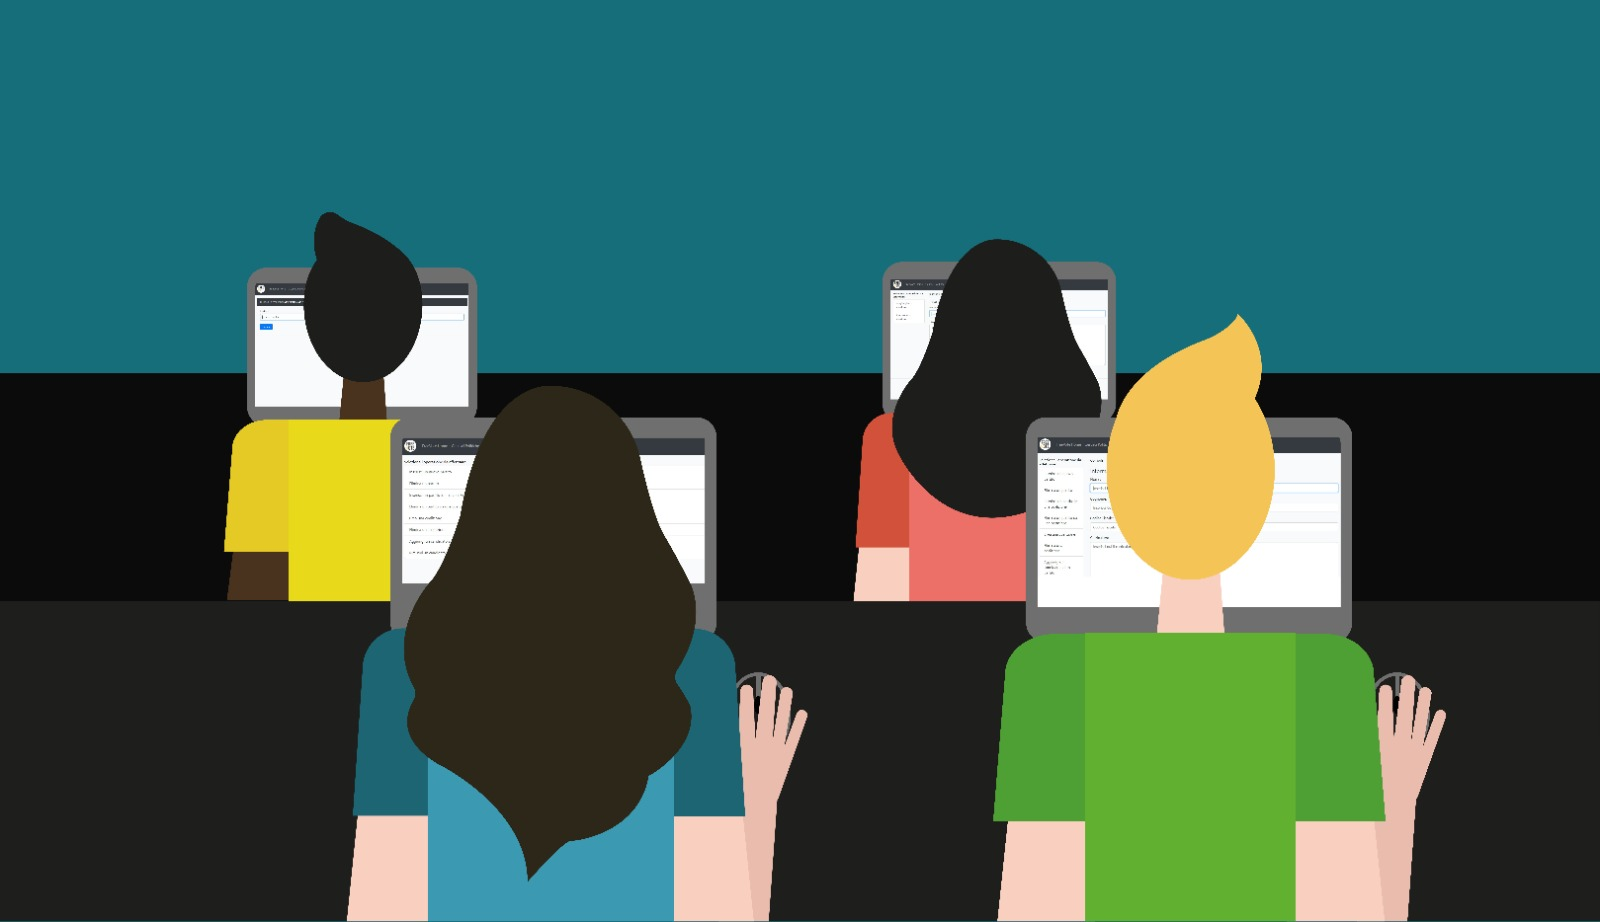
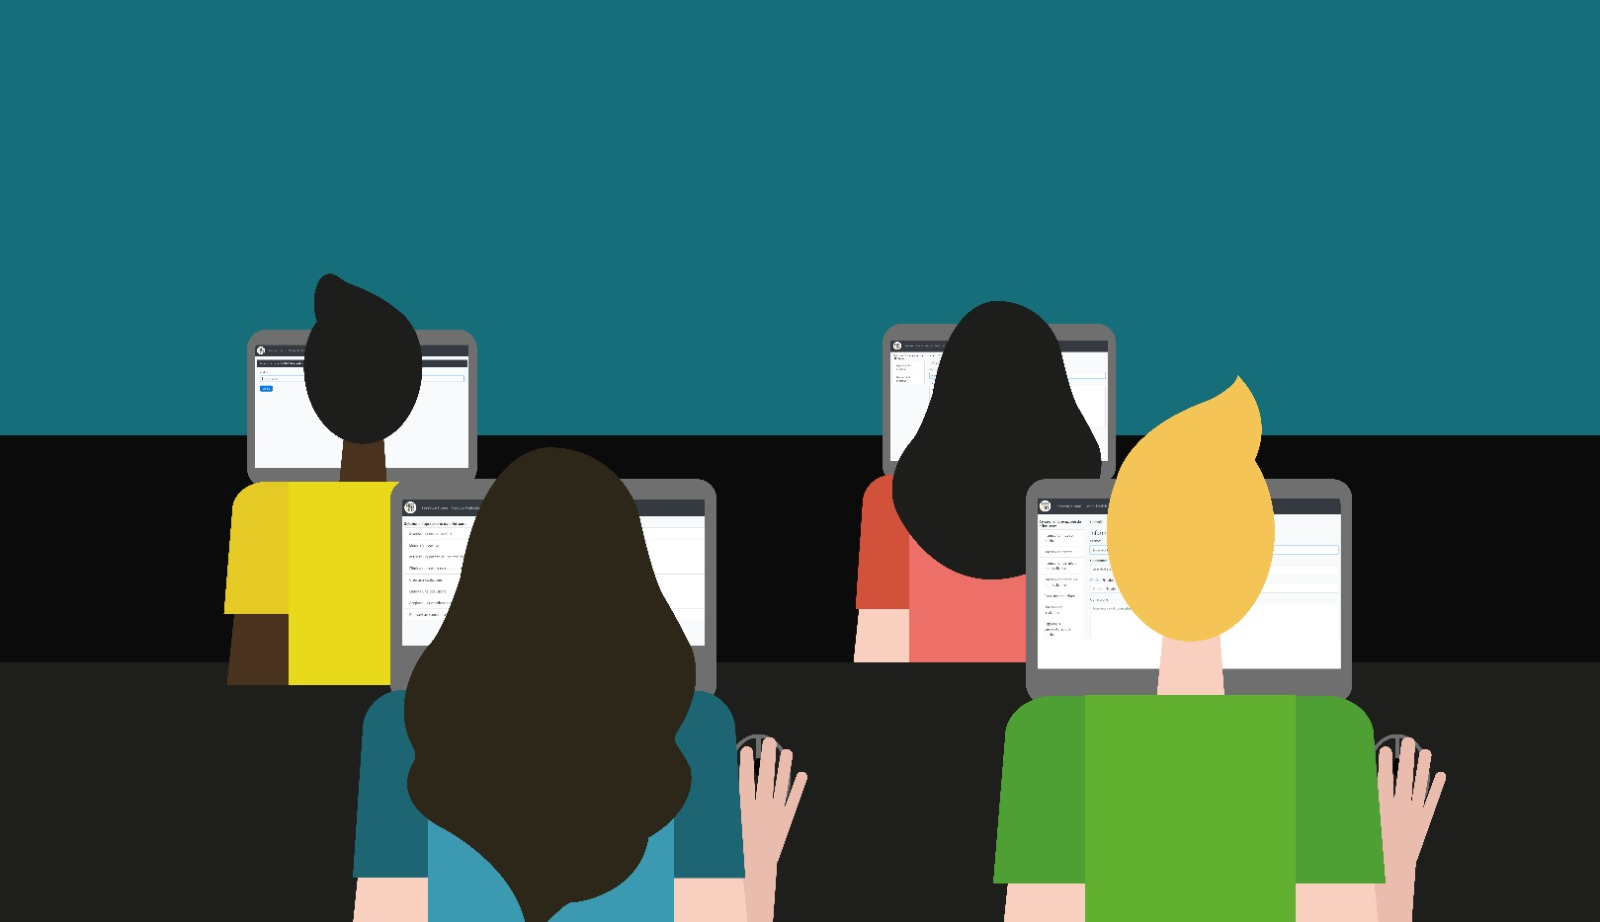
Aggiunta sfondo interfaccia admin, illustrazioni info e contatti, e sfondo corretto loginAdmin

Changed region(s): [[0.0, 0.2126, 1.0, 1.0], [0.625, 0.8807, 0.6875, 1.0], [0.5938, 0.8503, 0.625, 0.8807]]

diff --git a/FreeVote/WebContent/css/style.css b/FreeVote/WebContent/css/style.css
@@ -60,7 +60,15 @@
 
 @media screen and (min-width: 540px){
 	.bg-login-admin {
-			 background-image: url('../imgs/illogin-5.jpeg');
+			 background-image: url('../imgs/illogin-5.jpg');
+			 background-position:bottom; 
+			 background-size: cover;
+			 background-repeat:no-repeat;
+			 background-attachment: fixed;
+	}	
+	
+	.bg-interfaccia-admin {
+			 background-image: url('../imgs/interfacciaAdmin.jpeg');
 			 background-position:bottom; 
 			 background-size: cover;
 			 background-repeat:no-repeat;
@@ -71,4 +79,21 @@
 .bg-login-admin {
 		 background-color: #156e7a;
 }
+
+@media screen and (max-width: 540px){
+	.bg-interfaccia-admin {
+			 background-image: url('../imgs/interfacciaAdminMobile.png');
+		     background-position:bottom; 
+		     background-size: cover;
+			 background-repeat:no-repeat;
+		     background-attachment: fixed;
+	}
 	
+	.text-interfaccia-mobile {
+			margin: 0;
+		  	position: absolute;
+		  	top: 40%;
+		  	-ms-transform: translateY(-60%);
+		  	transform: translateY(-60%);
+	}
+}
